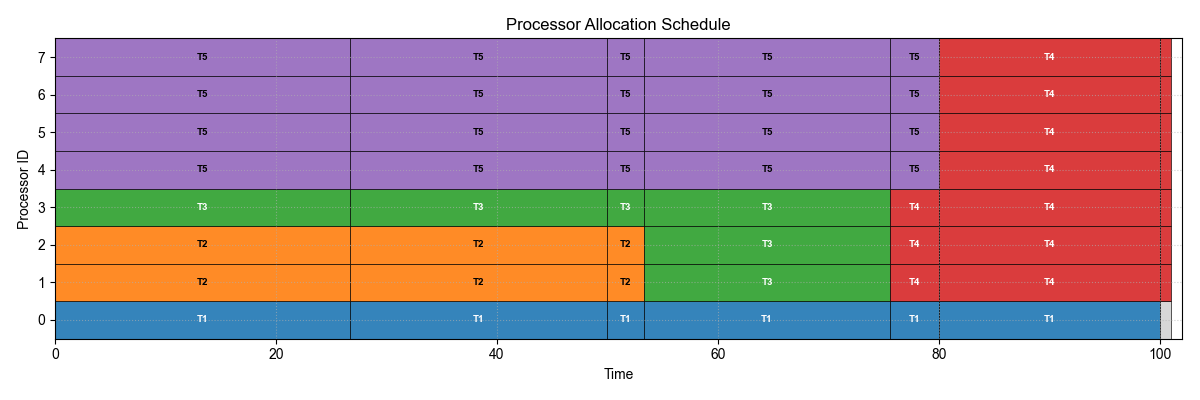
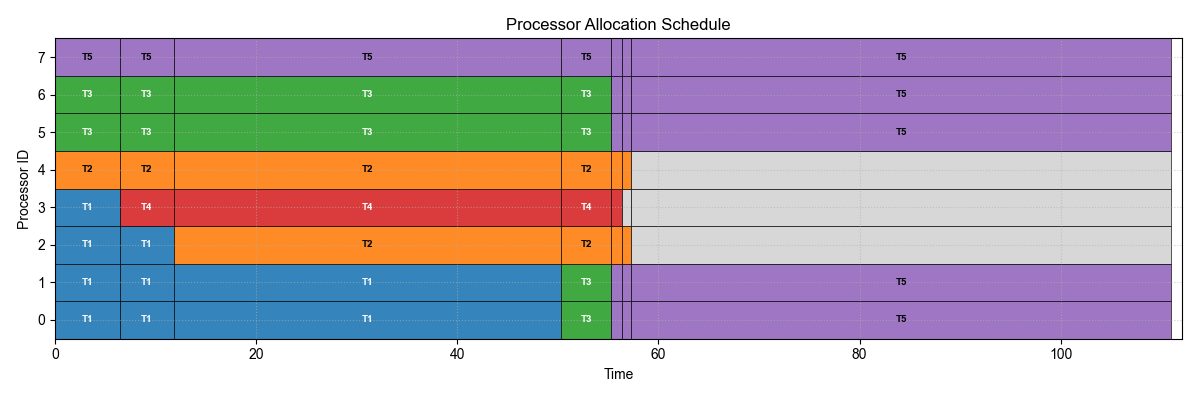
Test algo processor overuse fix

diff --git a/test_algo.py b/test_algo.py
@@ -56,12 +56,8 @@ class SegmentScheduler:
         running_tasks: dict[str, Any],
         free_processors: int,
     ) -> tuple[dict[str, Any], int, float]:
-        print(
-            f"\n=========Scheduling segments at time {current_interval_start}========"
-        )
         tasks_to_end = []
         current_interval_end = min(task["end_time"] for task in running_tasks.values())
-        print(f"Current interval end: {current_interval_end}\n")
 
         for task_id, task_info in running_tasks.items():
             self.schedule.append(
@@ -73,7 +69,6 @@ class SegmentScheduler:
                 )
             )
             if task_info["end_time"] == current_interval_end:
-                print(f"Ending task {task_id}")
                 tasks_to_end.append(task_id)
                 free_processors += task_info["processors_to_use"]
 
@@ -130,6 +125,19 @@ class SegmentScheduler:
 
             if segment_candidate is None:
                 print("No segment candidate found")
+                for seg_id in segments_to_schedule:
+                    task_id = segments[seg_id].task_id
+                    if task_id not in running_tasks:
+                        segment_candidate = seg_id
+                        break
+                    else:
+                        if (
+                            running_tasks[task_id]["processors_to_use"]
+                            < task_info_map[task_id]["max_processors"]
+                        ):
+                            segment_candidate = seg_id
+                            break
+
                 segment_candidate = segments_to_schedule[0]
                 print(f"Segment candidate: {segment_candidate}")
 
@@ -143,15 +151,20 @@ class SegmentScheduler:
                 )
 
                 if task_id in running_tasks:
-                    print(f"Task {task_id} is already running")
-
-                    new_processors_to_use = min(
-                        max_proc_number, segments[seg_id].processors
+                    print(
+                        f"Task {task_id} already running on {running_tasks[task_id]['processors_to_use']}/{task_info_map[task_id]['max_processors']}"
                     )
+
+                    new_processors_to_use = (
+                        max_proc_number - running_tasks[task_id]["processors_to_use"]
+                    )
+                    print(f"Can use {new_processors_to_use} processors")
                     processors_to_use = (
                         running_tasks[task_id]["processors_to_use"]
                         + new_processors_to_use
                     )
+
+                    print(f"New processors: {processors_to_use}")
 
                     current_work_amount = (
                         running_tasks[task_id]["end_time"] - current_interval_start
@@ -169,12 +182,6 @@ class SegmentScheduler:
                         new_work_amount,
                         task_info_map,
                         processors_to_use,
-                    )
-                    print(
-                        f"Current task {task_id} end time: {running_tasks[task_id]['end_time']}\n"
-                        f"Current interval start: {current_interval_start}\n"
-                        f"Duration: {duration}\n"
-                        f"New end time: {current_interval_start + duration}\n"
                     )
                     running_tasks[task_id]["end_time"] = (
                         current_interval_start + duration
@@ -196,7 +203,6 @@ class SegmentScheduler:
                     }
                     processors_to_use = new_processors_to_use
 
-                print(f"Using {processors_to_use} processors for segment {seg_id}")
                 free_processors -= new_processors_to_use
             else:
                 print("No segment candidate found")
